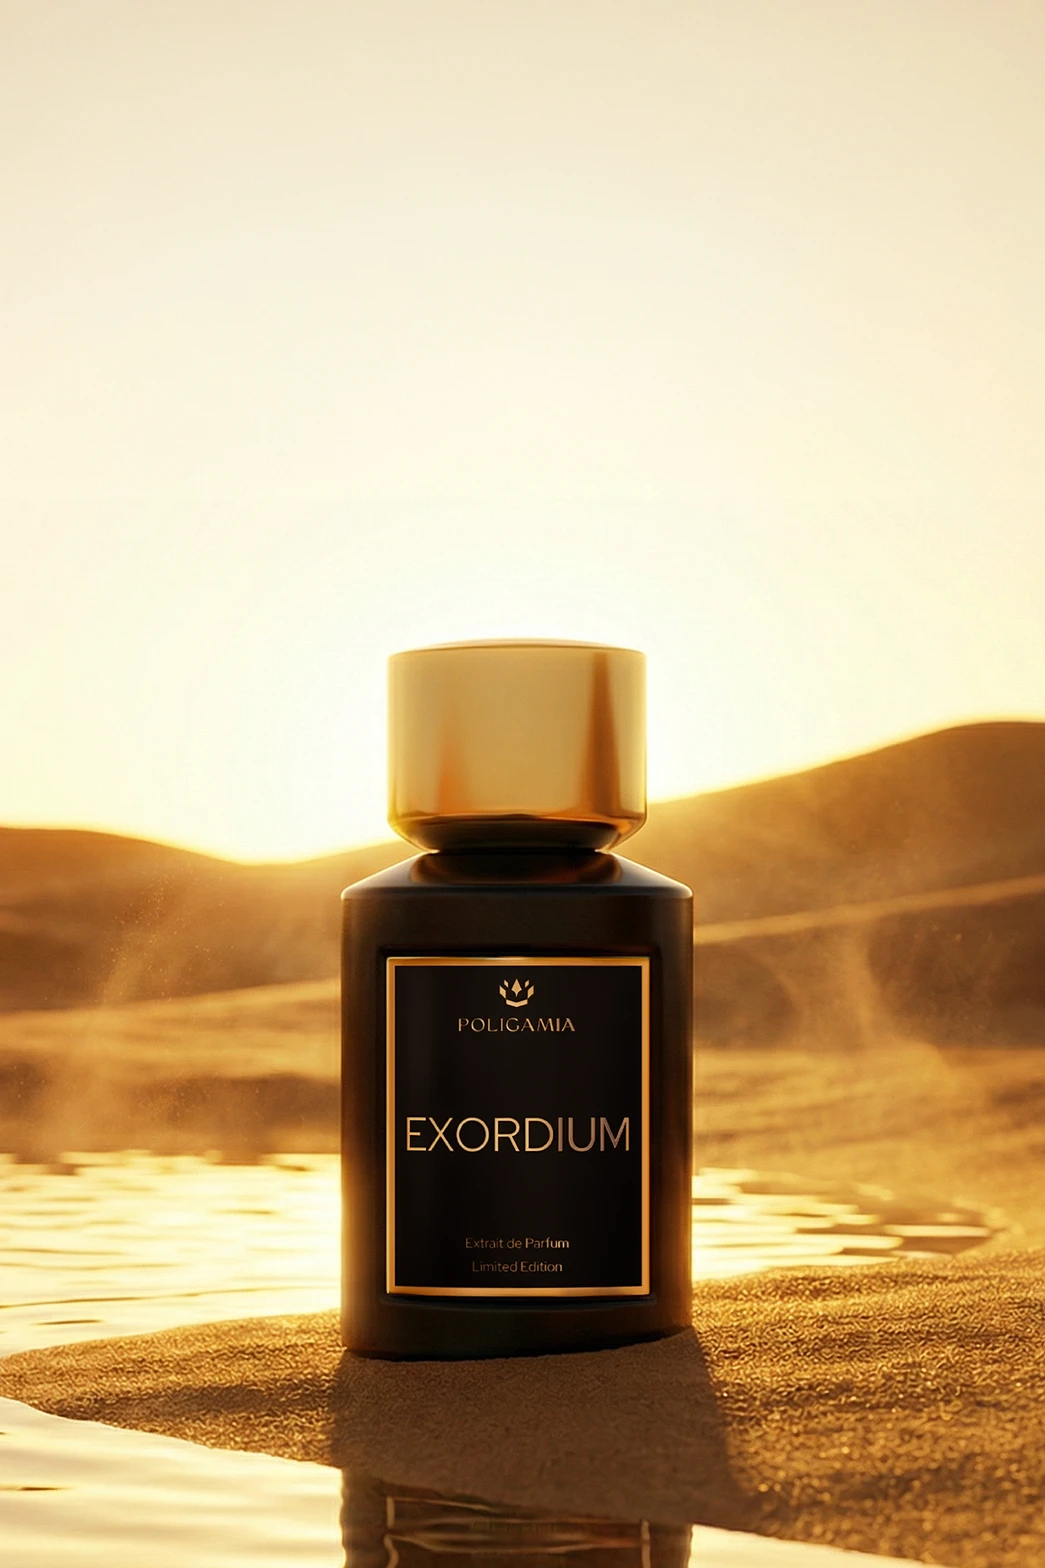
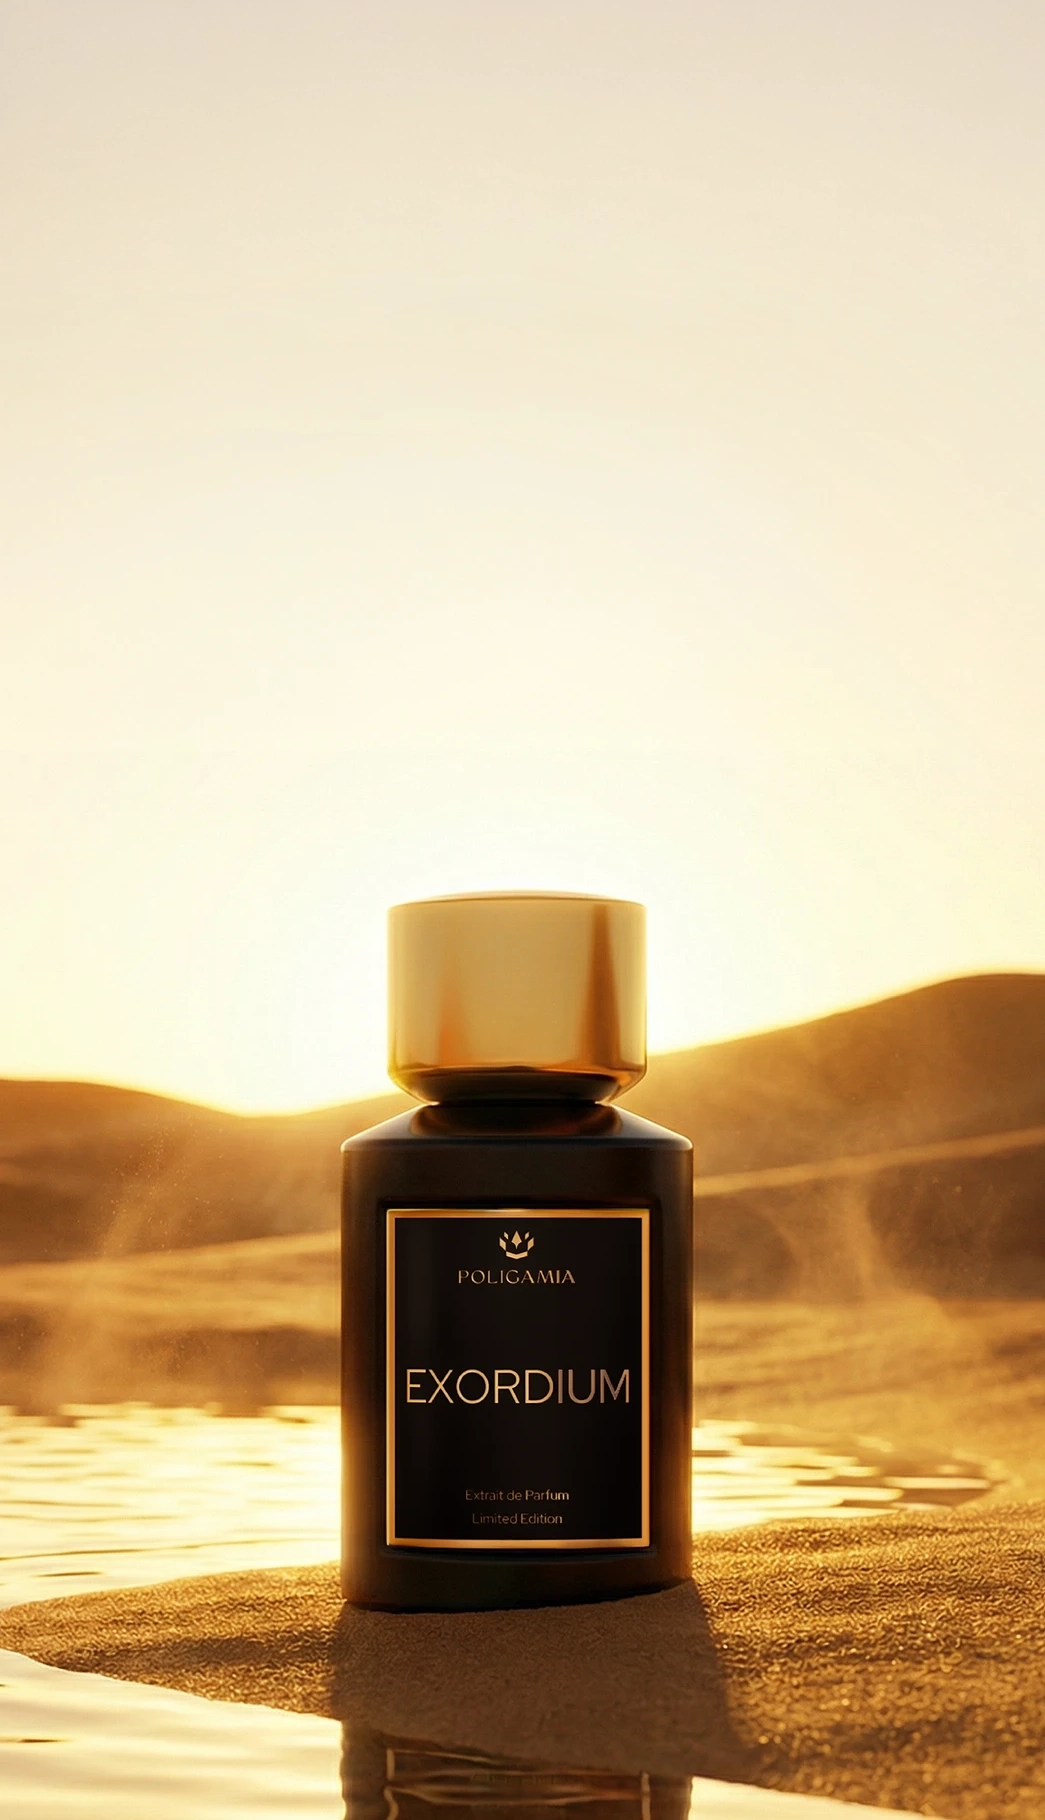
Align hero/nav styling and add legal pages

Changed region(s): [[0.0, 0.4062, 1.0, 1.0], [0.3675, 0.9375, 0.49, 1.0], [0.5206, 0.9688, 0.6124, 1.0]]

diff --git a/src/components/Hero.module.css b/src/components/Hero.module.css
@@ -66,11 +66,13 @@
   background: rgba(0, 0, 0, 0.5);
   backdrop-filter: blur(10px);
   border-radius: 20px;
+  text-shadow: none;
 }
 
 /* Headline - Bold Statement */
 .heroHeadline {
   margin-bottom: 2rem;
+  text-shadow: none;
 }
 
 .logoWrapper {
@@ -159,12 +161,24 @@
   color: #fff;
   margin-bottom: 2.5rem;
   max-width: 580px;
+  text-shadow: none;
 }
 
 /* Buttons */
 .heroButtons {
   display: flex;
   gap: 1.5rem;
+  flex-wrap: wrap;
+}
+
+.heroButtons button {
+  min-width: 220px;
+  height: 56px;
+  display: inline-flex;
+  align-items: center;
+  justify-content: center;
+  border-radius: 50px;
+  letter-spacing: 0.15em;
 }
 
 .btnPrimary {
@@ -180,8 +194,8 @@
   border-radius: 50px;
   cursor: pointer;
   transition: all 0.4s ease;
-  box-shadow: 0 4px 20px rgba(0, 0, 0, 0.2);
 }
+  box-shadow: none;
 
 .btnPrimary:hover {
   background: transparent;
@@ -345,6 +359,7 @@
 @media (max-width: 768px) {
   .hero {
     min-height: 100svh;
+    align-items: flex-start;
   }
 
   .heroBgImage {
@@ -352,13 +367,13 @@
   }
 
   .heroContent {
-    padding: 0 1.5rem;
-    justify-content: flex-end;
-    padding-bottom: 2.5rem;
+    padding: 4.5rem 1.5rem 2.5rem;
+    justify-content: flex-start;
+    align-items: center;
   }
 
   .heroText {
-    padding: 1.5rem !important;
+    padding: 1.25rem !important;
     margin: 0 !important;
     margin-bottom: 2rem !important;
     text-align: center;
@@ -366,33 +381,38 @@
     background: transparent;
     backdrop-filter: none;
     border-radius: 0;
+    color: #000;
   }
 
   .heroHeadline {
     text-align: center;
+    color: #000;
+    margin-bottom: 1.1rem;
   }
 
   .heroLogo {
     max-width: 280px;
-    filter: brightness(0) invert(1) drop-shadow(0 2px 8px rgba(0, 0, 0, 0.5));
+    filter: brightness(0);
   }
 
   .trademark {
-    text-shadow: 0 2px 8px rgba(0, 0, 0, 0.5);
+    color: #000;
+    text-shadow: none;
   }
 
   .heroSubtitle {
     font-size: 0.9rem;
     max-width: 100%;
-    color: #fff;
-    text-shadow: 0 1px 6px rgba(0, 0, 0, 0.6);
-    margin-bottom: 1.5rem;
+    color: #000;
+    text-shadow: none;
+    line-height: 1.5;
+    margin-bottom: 1.1rem;
   }
 
   .heroButtons {
     flex-direction: column;
     width: 100%;
-    gap: 0.75rem;
+    gap: 0.6rem;
   }
 
   .btnPrimary {
@@ -400,7 +420,10 @@
     text-align: center;
     padding: 0.875rem 1.5rem;
     font-size: 0.7rem;
-    box-shadow: 0 4px 15px rgba(0, 0, 0, 0.3);
+    color: #fff;
+    background: #000;
+    border-color: #000;
+    box-shadow: none;
   }
 
   .btnSecondary {
@@ -408,8 +431,27 @@
     text-align: center;
     padding: 0.875rem 1.5rem;
     font-size: 0.7rem;
-    background: rgba(0, 0, 0, 0.3);
-    backdrop-filter: blur(4px);
+    color: #fff;
+    background: #8B7355;
+    border-color: #8B7355;
+    backdrop-filter: none;
+  }
+
+  .btnPrimary:hover,
+  .btnSecondary:hover {
+    transform: translateY(-1px);
+  }
+
+  .btnPrimary:hover {
+    background: #000;
+    color: #fff;
+    border-color: #000;
+  }
+
+  .btnSecondary:hover {
+    background: #8B7355;
+    color: #fff;
+    border-color: #8B7355;
   }
 
   .productCard {

diff --git a/src/components/Navigation.tsx b/src/components/Navigation.tsx
@@ -97,23 +97,24 @@ export default function Navigation() {
             </a>
           </div>
 
-          {/* Language Switcher */}
-          <button
-            className={styles.langSwitch}
-            onClick={() => setLanguage(language === 'de' ? 'en' : 'de')}
-            aria-label="Switch language"
-          >
-            {language === 'de' ? 'EN' : 'DE'}
-          </button>
+          <div className={styles.actions}>
+            <button
+              className={styles.langSwitch}
+              onClick={() => setLanguage(language === 'de' ? 'en' : 'de')}
+              aria-label="Switch language"
+            >
+              {language === 'de' ? 'EN' : 'DE'}
+            </button>
 
-          {/* CTA (Desktop) */}
-          <a
-            href="#request"
-            onClick={(e) => scrollToSection(e, 'request')}
-            className={styles.cta}
-          >
-            <span>{t.nav.request}</span>
-          </a>
+            {/* CTA (Desktop) */}
+            <a
+              href="#request"
+              onClick={(e) => scrollToSection(e, 'request')}
+              className={styles.cta}
+            >
+              <span>{t.nav.request}</span>
+            </a>
+          </div>
 
           {/* Hamburger Menu (Mobile) */}
           <button

diff --git a/src/components/Testimonials.module.css b/src/components/Testimonials.module.css
@@ -2,7 +2,7 @@
   background: #E8E0D5; /* Beige - reviews section */
   padding: 6rem 0;
   position: relative;
-  overflow: hidden;
+  overflow: visible;
 }
 
 /* Header */
@@ -45,19 +45,13 @@
   flex-direction: column;
   gap: 1.5rem;
   width: 100%;
-  mask-image: linear-gradient(
-    90deg,
-    transparent,
-    white 5%,
-    white 95%,
-    transparent
-  );
+  padding: 0.5rem 0;
 }
 
 /* Single Row */
 .row {
   width: 100%;
-  overflow: hidden;
+  overflow: visible;
 }
 
 /* Row Track - contains all cards */

diff --git a/src/components/RequestForm.module.css b/src/components/RequestForm.module.css
@@ -137,18 +137,12 @@
 }
 
 .inputLine {
-  position: absolute;
-  bottom: 0;
-  left: 0;
-  width: 0;
-  height: 1px;
-  background: var(--crown-gold);
-  transition: width 0.5s var(--ease-luxury);
+  display: none;
 }
 
 .input:focus ~ .inputLine,
 .textarea:focus ~ .inputLine {
-  width: 100%;
+  width: 0;
 }
 
 /* Validation States */

diff --git a/src/components/RequestForm.tsx b/src/components/RequestForm.tsx
@@ -75,14 +75,14 @@ export default function RequestForm() {
   const headerText = {
     de: {
       overline: 'Zugang anfragen',
-      title: 'Bist du bereit,',
-      titleHighlight: 'Teil dieser Welt zu werden?',
+      title: 'Bist du bereit für einen Duft,',
+      titleHighlight: 'der Luxus, Charakter und Exklusivität vereint?',
       subtitle: 'Jede Einladung ist eine Entscheidung.',
     },
     en: {
       overline: 'Request Access',
-      title: 'Are you ready to',
-      titleHighlight: 'become part of this world?',
+      title: 'Are you ready for a fragrance that combines',
+      titleHighlight: 'luxury, character, and exclusivity?',
       subtitle: 'Every invitation is a decision.',
     },
   };

diff --git a/src/components/Navigation.module.css b/src/components/Navigation.module.css
@@ -116,6 +116,12 @@
   gap: 2.5rem;
 }
 
+.actions {
+  display: flex;
+  align-items: center;
+  gap: 1rem;
+}
+
 .link {
   font-family: var(--font-display);
   font-size: 0.7rem;

diff --git a/src/components/Access.tsx b/src/components/Access.tsx
@@ -102,12 +102,12 @@ export default function Access() {
   // Localized header and quote text
   const headerText = {
     de: {
-      title: 'EXORDIUM ist bewusst entzogen –',
+      title: 'EXORDIUM ist bewusst entzogen:',
       titleHighlight: 'Dem Mainstream. Der Masse. Dem Erwartbaren.',
       subtitle: 'Es findet dich.',
     },
     en: {
-      title: 'EXORDIUM is deliberately withheld –',
+      title: 'EXORDIUM is deliberately withheld:',
       titleHighlight: 'From the mainstream. The masses. The expected.',
       subtitle: 'It finds you.',
     },

diff --git a/src/components/Footer.tsx b/src/components/Footer.tsx
@@ -119,8 +119,8 @@ export default function Footer() {
             {footerText[language].copyright}
           </p>
           <div className={styles.legalLinks}>
-            <a href="#" className={styles.legalLink}>{footerText[language].imprint}</a>
-            <a href="#" className={styles.legalLink}>{footerText[language].privacy}</a>
+            <a href="/impressum" className={styles.legalLink}>{footerText[language].imprint}</a>
+            <a href="/datenschutz" className={styles.legalLink}>{footerText[language].privacy}</a>
           </div>
         </div>
       </div>

diff --git a/src/components/Footer.module.css b/src/components/Footer.module.css
@@ -6,7 +6,7 @@
 }
 
 .container {
-  max-width: 2000px;
+  max-width: 1400px;
   margin: 0 auto;
   position: relative;
   z-index: 1;

diff --git a/src/components/Testimonials.tsx b/src/components/Testimonials.tsx
@@ -15,7 +15,7 @@ interface Testimonial {
 
 const testimonials: Testimonial[] = [
   {
-    quote: 'Ein Duft der die Herzen der Frauen erobert! Dieser Duft vermittelt Sicherheit, Seriösität und maskuline Stärke! Er ist Herb gleichzeitig umgibt er die Umgebung von einer wohlen süßen Aura. Not for everyone!',
+    quote: 'Dieser Duft vermittelt Sicherheit, Seriösität und maskuline Stärke! Er ist Herb gleichzeitig umgibt er die Umgebung von einer wohlen süßen Aura. Not for everyone!',
     author: 'Elvis Z.',
     title: 'Physiotherapeut aus Nürnberg',
     rating: 5,